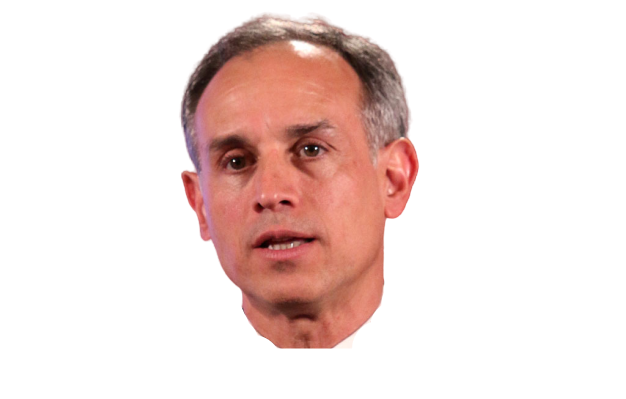
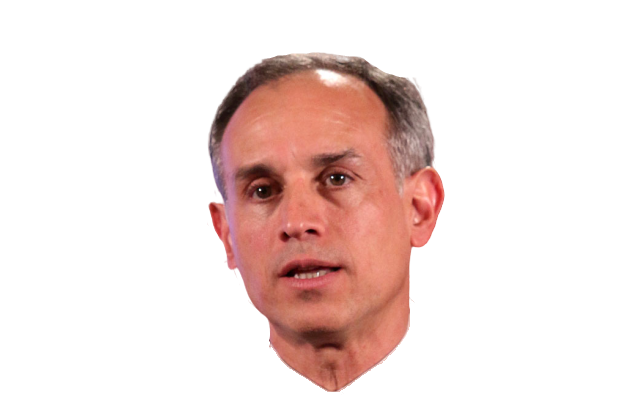
random animate head gatell

Changed region(s): [[0.2732, 0.0301, 0.7284, 0.9925]]

diff --git a/index.js b/index.js
@@ -1,5 +1,10 @@
 const gatell = document.getElementById("gatell");
 
+window.onload = function () {
+  if (getRandomInt(1, 2) === 1) gatell.className = "cabezaSpin";
+  else gatell.className = "cabezaSpin2";
+};
+
 function getRandomInt(min, max) {
   min = Math.ceil(min);
   max = Math.floor(max);

diff --git a/index.css b/index.css
@@ -58,7 +58,14 @@ h1 {
   overflow: hidden;
 }
 
-.cabezaImg {
+.cabezaSpin {
+  width: 33%;
+  height: auto;
+  position: absolute;
+  animation: spin 2s linear infinite;
+}
+
+.cabezaSpin2 {
   width: 33%;
   height: auto;
   position: absolute;
